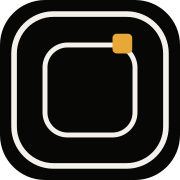
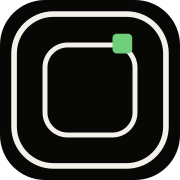
feat(site): switch brand accent to phosphor green
Retarget the accent from amber to CRT phosphor #6FCF7B so the site, logos, and TUI pip read as one terminal family.

Changed region(s): [[0.6111, 0.1667, 0.75, 0.3056]]

diff --git a/assets/branding/tokens.css b/assets/branding/tokens.css
@@ -6,8 +6,8 @@
   --color-cream-300: #c8c0b2;
   --color-steel-500: #8a8680;
   --color-steel-700: #3a3834;
-  --color-amber-400: #e8a838;
-  --color-amber-500: #d4921f;
+  --color-phosphor-400: #6fcf7b;
+  --color-phosphor-500: #4eae5a;
   --color-danger-500: #c45c4a;
 
   --font-display: "Geist", "Satoshi", ui-sans-serif, system-ui, sans-serif;
@@ -48,8 +48,8 @@
   --color-fg: var(--color-cream-50);
   --color-muted: var(--color-steel-500);
   --color-line: var(--color-steel-700);
-  --color-accent: var(--color-amber-400);
-  --color-accent-hover: var(--color-amber-500);
+  --color-accent: var(--color-phosphor-400);
+  --color-accent-hover: var(--color-phosphor-500);
   --color-danger: var(--color-danger-500);
 
   --font-heading: var(--font-display);

diff --git a/site/src/styles/tokens.css b/site/src/styles/tokens.css
@@ -6,8 +6,8 @@
   --color-cream-300: #c8c0b2;
   --color-steel-500: #8a8680;
   --color-steel-700: #3a3834;
-  --color-amber-400: #e8a838;
-  --color-amber-500: #d4921f;
+  --color-phosphor-400: #6fcf7b;
+  --color-phosphor-500: #4eae5a;
   --color-danger-500: #c45c4a;
 
   --font-display: "Geist", "Satoshi", ui-sans-serif, system-ui, sans-serif;
@@ -48,8 +48,8 @@
   --color-fg: var(--color-cream-50);
   --color-muted: var(--color-steel-500);
   --color-line: var(--color-steel-700);
-  --color-accent: var(--color-amber-400);
-  --color-accent-hover: var(--color-amber-500);
+  --color-accent: var(--color-phosphor-400);
+  --color-accent-hover: var(--color-phosphor-500);
   --color-danger: var(--color-danger-500);
 
   --font-heading: var(--font-display);

diff --git a/site/src/styles/global.css b/site/src/styles/global.css
@@ -10,7 +10,7 @@
   --color-ink: #f4f1ea;
   --color-mute: #8a8680;
   --color-line: #2c2a26;
-  --color-amber: #e8a838;
+  --color-amber: var(--color-accent);
   --color-core: #0c0c0a;
   --ease-out-fluid: cubic-bezier(0.32, 0.72, 0, 1);
 }
@@ -117,7 +117,7 @@ li {
   height: 34rem;
   margin: -17rem 0 0 -17rem;
   pointer-events: none;
-  background: radial-gradient(circle, rgb(232 168 56 / 0.16), transparent 62%);
+  background: radial-gradient(circle, color-mix(in srgb, var(--color-accent) 16%, transparent), transparent 62%);
   will-change: transform;
 }
 

diff --git a/cmd/dc-tui/logo.go b/cmd/dc-tui/logo.go
@@ -6,7 +6,7 @@ import (
 	"github.com/charmbracelet/lipgloss"
 )
 
-// Brand mark: host frame around a guest, amber pip (assets/branding/logo-mark.svg).
+// Brand mark: host frame around a guest, phosphor pip (assets/branding/logo-mark.svg).
 const (
 	splashLast   = 5
 	splashHold   = 3
@@ -15,7 +15,7 @@ const (
 
 var (
 	logoFrame = lipgloss.NewStyle().Foreground(lipgloss.Color("#8A8680"))
-	logoPip   = lipgloss.NewStyle().Foreground(lipgloss.Color("#E8A838")).Bold(true)
+	logoPip   = lipgloss.NewStyle().Foreground(lipgloss.Color("#6FCF7B")).Bold(true)
 	logoWord  = lipgloss.NewStyle().Bold(true).Foreground(lipgloss.Color("#F4F1EA"))
 	logoTag   = lipgloss.NewStyle().Foreground(lipgloss.Color("#8A8680"))
 )

diff --git a/README.md b/README.md
@@ -93,7 +93,7 @@ dc-tui --all        # every labeled workspace
 
 Primary row: **start** · **shell** · **stop**. Meta row is quieter. **rm** is danger and asks `y/n`. Stack / fleet rows: **up** / **down**, `j`/`k` or click, Enter to open or exec.
 
-Startup draws the **dc-cli** mark (host frame + amber pip). Any key skips. `DC_TUI_NO_SPLASH=1` skips it. The compact mark stays in the header.
+Startup draws the **dc-cli** mark (host frame + phosphor pip). Any key skips. `DC_TUI_NO_SPLASH=1` skips it. The compact mark stays in the header.
 
 | Button | Key | Does |
 |---|---|---|

diff --git a/site/src/content/guides/tui.md b/site/src/content/guides/tui.md
@@ -23,7 +23,7 @@ dc-tui ~/src/app
 dc-tui --all        # every labeled workspace
 ```
 
-Startup draws the **dc-cli** mark (host frame + amber pip). Any key skips. `DC_TUI_NO_SPLASH=1` skips it. The compact mark stays in the header.
+Startup draws the **dc-cli** mark (host frame + phosphor pip). Any key skips. `DC_TUI_NO_SPLASH=1` skips it. The compact mark stays in the header.
 
 ![dc-tui board](/images/tui.png)
 

diff --git a/assets/branding/README.md b/assets/branding/README.md
@@ -21,7 +21,7 @@ Concepts in `concepts/` are exploration only. Do not ship them.
 |---|---|
 | Background | `#050505` |
 | Foreground | `#F4F1EA` |
-| Accent | `#E8A838` |
+| Accent | `#6FCF7B` |
 | Steel | `#8A8680` |
 
 ## Type
